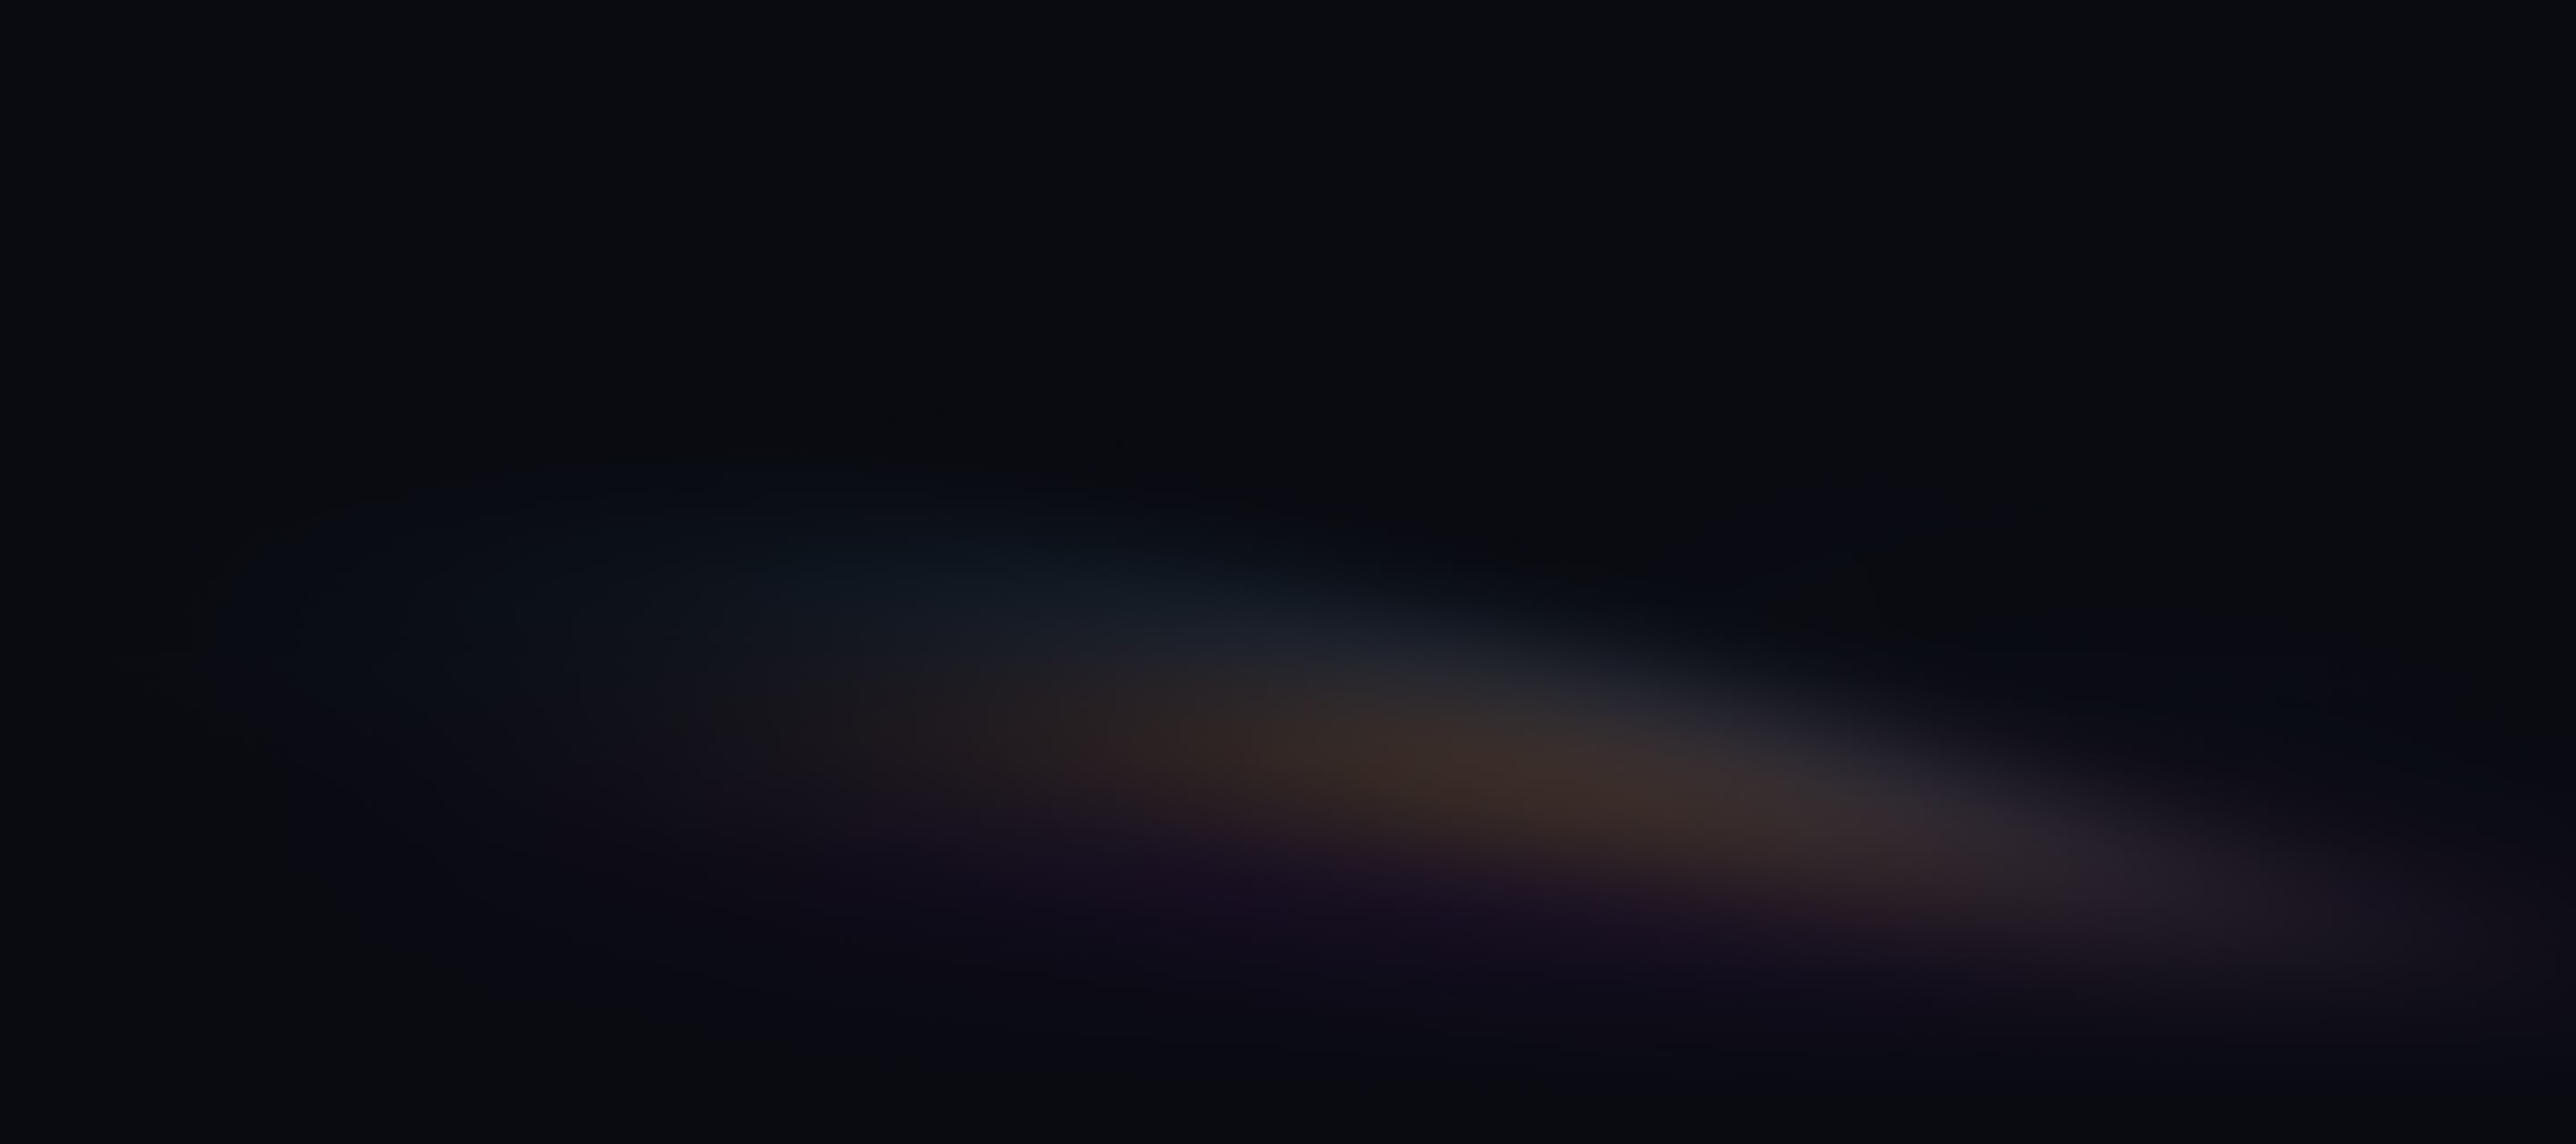
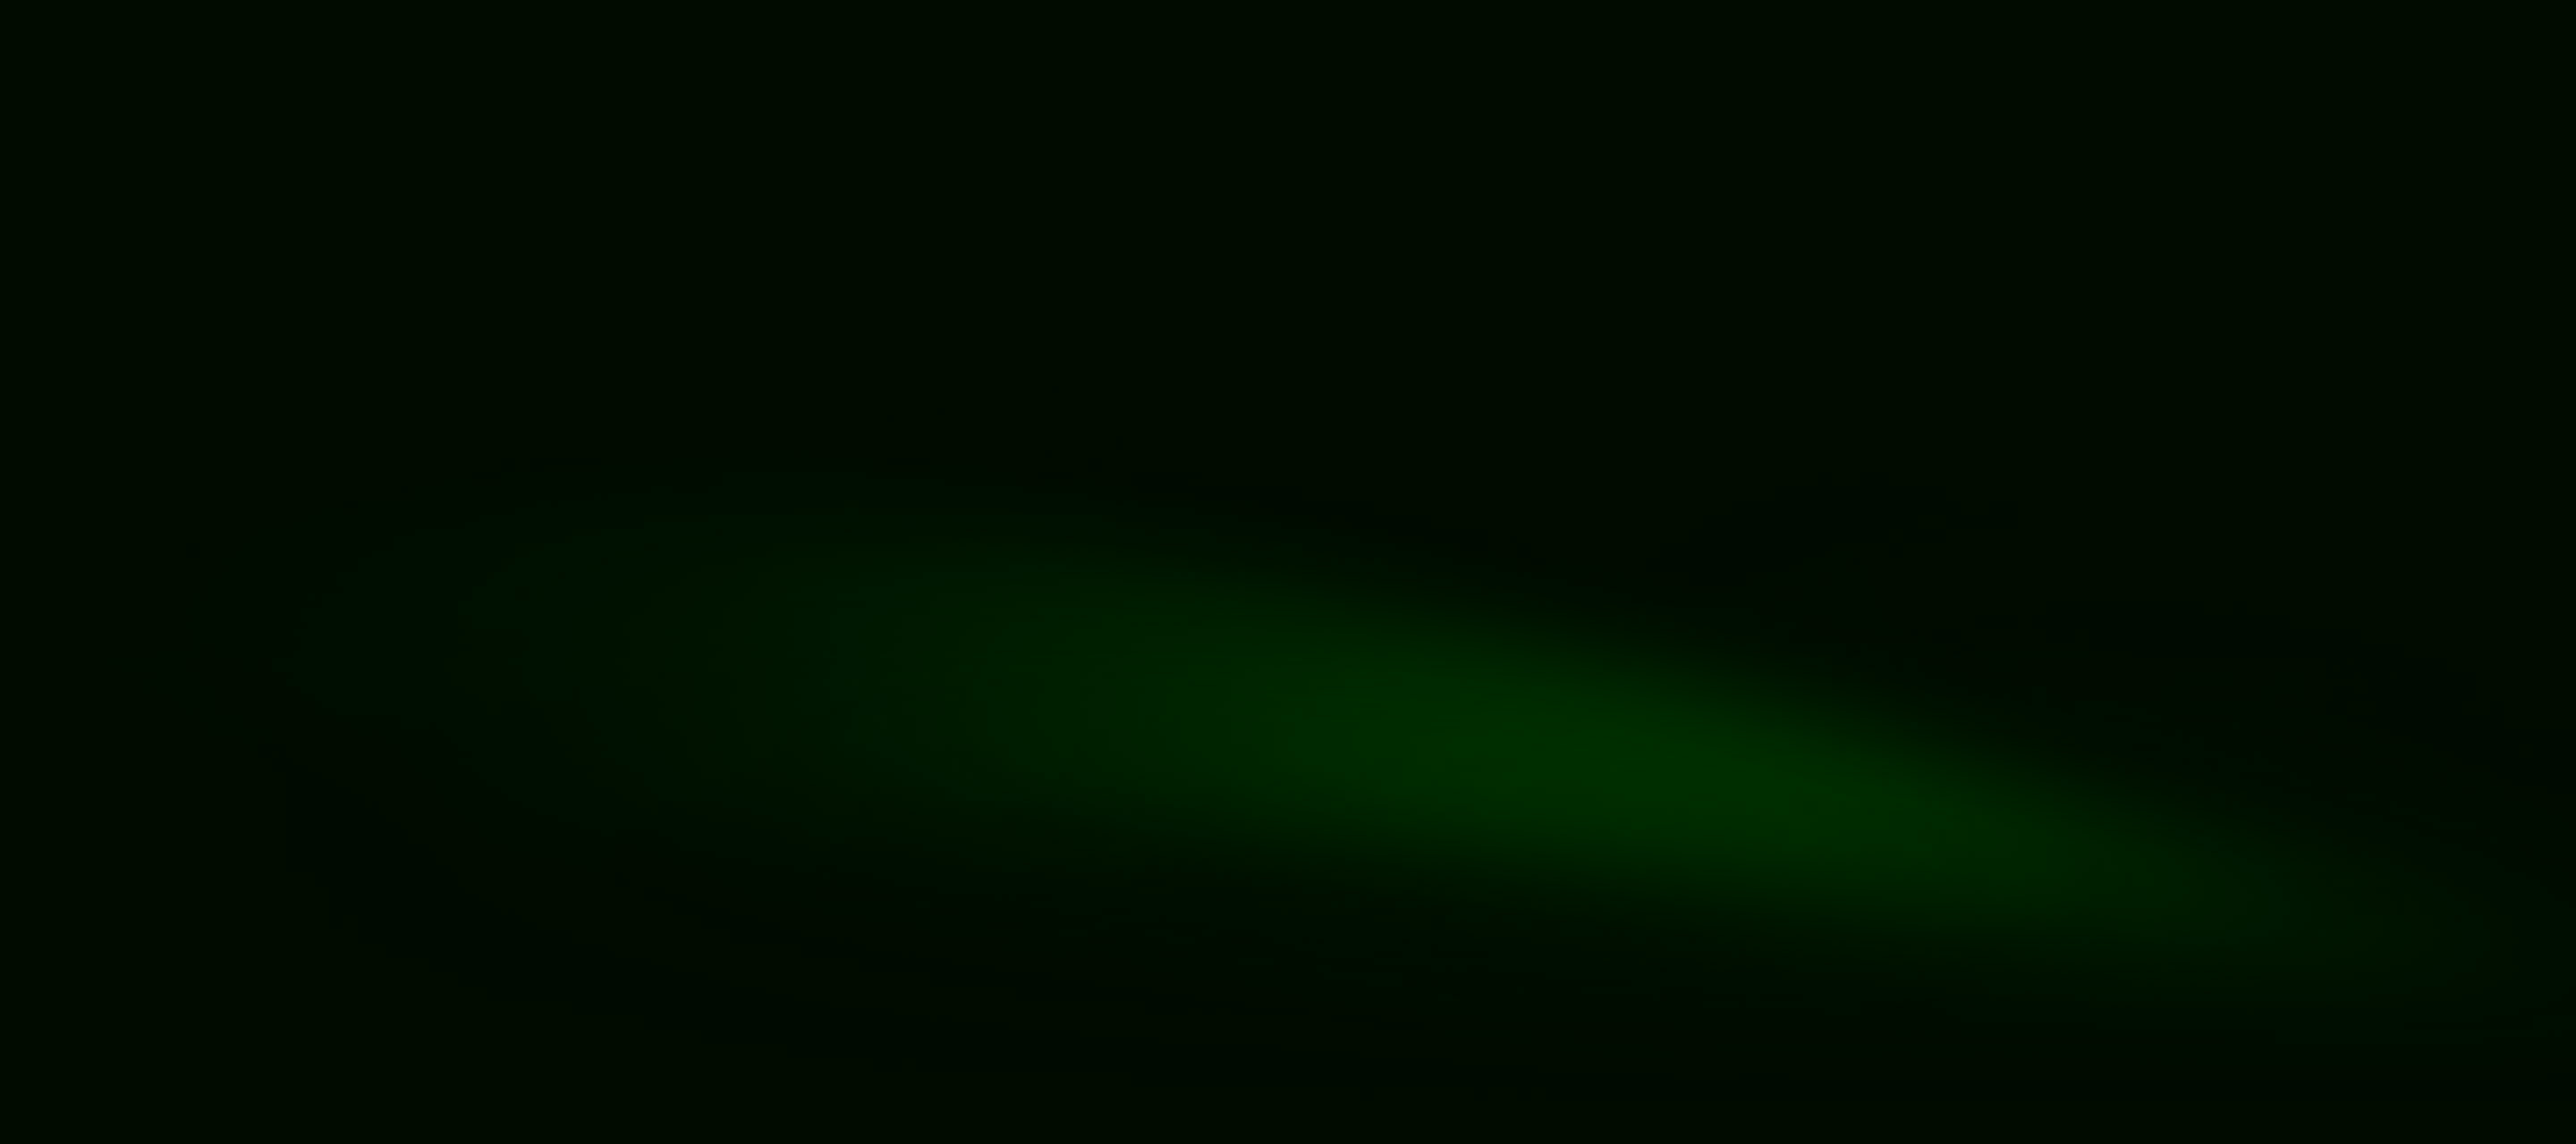
Updated the backrounds and graidents to match the color scheme. Updated the sizing of the images for resize.

Changed region(s): [[0.2188, 0.4375, 1.0, 0.9062]]

diff --git a/src/styles/global.css b/src/styles/global.css
@@ -2,18 +2,18 @@
 :root {
 	/* Colors */
 	--gray-0: #ffffff;
-	--gray-50: #f3f4f7;
-	--gray-100: #e3e6ee;
-	--gray-200: #c3cadb;
-	--gray-300: #a3acc8;
-	--gray-400: #8490b5;
-	--gray-500: #6474a2;
-	--gray-600: #505d84;
-	--gray-700: #3d4663;
-	--gray-800: #283044;
-	--gray-900: #141925;
+	--gray-50: #f3f7f3;
+	--gray-100: #e4eee3;
+	--gray-200: #c3dbc6;
+	--gray-300: #a3c8a6;
+	--gray-400: #84b588;
+	--gray-500: #64a264;
+	--gray-600: #508457;
+	--gray-700: #3d6343;
+	--gray-800: #2b4428;
+	--gray-900: #0d180d;
 	--gray-999-basis: 225, 31%, 5%;
-	--gray-999: #090b11;
+	--gray-999: #020a02fb;
 
 	--accent-light: #005607;
 	--accent-regular: #25a611;
